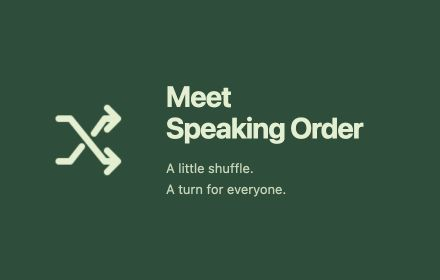
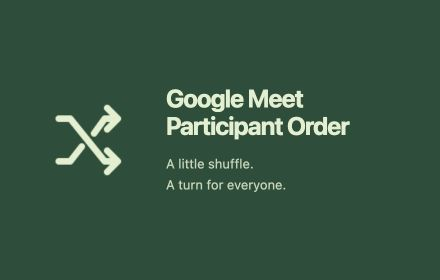
Rename extension to Google Meet Participant Order

Changed region(s): [[0.3545, 0.2857, 0.8273, 0.5143], [0.3545, 0.5714, 0.65, 0.7143]]

diff --git a/store/preview.html b/store/preview.html
@@ -1,17 +1,17 @@
-<!doctype html><html lang="en"><meta charset="utf-8"><title>Meet Speaking Order — store screenshot</title>
+<!doctype html><html lang="en"><meta charset="utf-8"><title>Google Meet Participant Order — store screenshot</title>
 <style>*{box-sizing:border-box}body{margin:0;width:1280px;height:800px;background:#eaf0e4;font-family:-apple-system,BlinkMacSystemFont,"Segoe UI",sans-serif;color:#18332e;overflow:hidden}main{height:100%;display:flex;align-items:center;gap:95px;padding:65px 105px}.copy{width:460px}.label{font-size:13px;letter-spacing:2px;font-weight:650;color:#54704e}h1{font-size:66px;line-height:1.06;letter-spacing:-3px;margin:24px 0}p{font-size:21px;line-height:1.5;color:#5d705c}.steps{font-size:17px;line-height:2.1;margin:30px 0;color:#284d38}.note{font-size:12px;margin-top:38px}iframe{width:392px;height:650px;border:1px solid #d1dcc9;border-radius:18px;box-shadow:0 22px 55px #29422720;background:#f6f7f2;flex-shrink:0}</style>
-<main><section class="copy"><div class="label">MEET SPEAKING ORDER</div><h1>A turn for<br>everyone.</h1><p>Shuffle your Google Meet participants<br>into a ready-to-copy speaking order.</p><div class="steps">01 &nbsp; Open the extension<br>02 &nbsp; Review or reshuffle<br>03 &nbsp; Copy and paste into chat</div><p class="note">Local processing · No tracking · Example names shown</p></section><iframe title="Extension popup preview" srcdoc="&lt;!doctype html&gt;
+<main><section class="copy"><div class="label">GOOGLE MEET PARTICIPANT ORDER</div><h1>A turn for<br>everyone.</h1><p>Shuffle your Google Meet participants<br>into a ready-to-copy speaking order.</p><div class="steps">01 &nbsp; Open the extension<br>02 &nbsp; Review or reshuffle<br>03 &nbsp; Copy and paste into chat</div><p class="note">Local processing · No tracking · Example names shown</p></section><iframe title="Extension popup preview" srcdoc="&lt;!doctype html&gt;
 &lt;html lang=&quot;en&quot;&gt;
   &lt;head&gt;&lt;base href=&quot;../&quot;&gt;
     &lt;meta charset=&quot;utf-8&quot;&gt;
     &lt;meta name=&quot;viewport&quot; content=&quot;width=device-width, initial-scale=1&quot;&gt;
-    &lt;title&gt;Meet Speaking Order&lt;/title&gt;
+    &lt;title&gt;Google Meet Participant Order&lt;/title&gt;
     &lt;link rel=&quot;stylesheet&quot; href=&quot;popup.css&quot;&gt;
   &lt;/head&gt;
   &lt;body&gt;
     &lt;header&gt;
       &lt;div class=&quot;brand-icon&quot; aria-hidden=&quot;true&quot;&gt;&lt;svg viewBox=&quot;0 0 24 24&quot; fill=&quot;none&quot;&gt;&lt;path d=&quot;M4 7h3c4 0 6 10 10 10h3M17 14l3 3-3 3M4 17h3c1.3 0 2.4-1 3.5-2.5M13.5 9.5C14.6 8 15.7 7 17 7h3M17 4l3 3-3 3&quot; stroke=&quot;currentColor&quot; stroke-width=&quot;2&quot; stroke-linecap=&quot;round&quot; stroke-linejoin=&quot;round&quot;/&gt;&lt;/svg&gt;&lt;/div&gt;
-      &lt;div&gt;&lt;span class=&quot;eyebrow&quot;&gt;FOR GOOGLE MEET&lt;/span&gt;&lt;h1&gt;Speaking order&lt;/h1&gt;&lt;/div&gt;
+      &lt;div&gt;&lt;span class=&quot;eyebrow&quot;&gt;GOOGLE MEET&lt;/span&gt;&lt;h1&gt;Participant Order&lt;/h1&gt;&lt;/div&gt;
     &lt;/header&gt;
     &lt;main&gt;
       &lt;p class=&quot;intro&quot;&gt;A little shuffle. A turn for everyone.&lt;/p&gt;

diff --git a/store/promo.html b/store/promo.html
@@ -1,1 +1,1 @@
-<!doctype html><html lang="en"><meta charset="utf-8"><title>Meet Speaking Order — promotional tile</title><style>*{box-sizing:border-box}body{margin:0;width:440px;height:280px;background:#244e39;color:#e0efcd;font-family:-apple-system,BlinkMacSystemFont,"Segoe UI",sans-serif;overflow:hidden}main{height:100%;display:flex;align-items:center;gap:26px;padding:35px}img{width:105px;height:105px}h1{font-size:29px;letter-spacing:-1px;line-height:1.1;margin:0 0 14px}p{font-size:13px;line-height:1.6;color:#c2d6b5;margin:0}</style><main><img src="../icons/128.png" alt="Shuffle icon"><section><h1>Meet<br>Speaking Order</h1><p>A little shuffle.<br>A turn for everyone.</p></section></main></html>
+<!doctype html><html lang="en"><meta charset="utf-8"><title>Google Meet Participant Order — promotional tile</title><style>*{box-sizing:border-box}body{margin:0;width:440px;height:280px;background:#244e39;color:#e0efcd;font-family:-apple-system,BlinkMacSystemFont,"Segoe UI",sans-serif;overflow:hidden}main{height:100%;display:flex;align-items:center;gap:26px;padding:35px}img{width:105px;height:105px}h1{font-size:25px;letter-spacing:-1px;line-height:1.1;margin:0 0 14px}p{font-size:13px;line-height:1.6;color:#c2d6b5;margin:0}</style><main><img src="../icons/128.png" alt="Shuffle icon"><section><h1>Google Meet<br>Participant Order</h1><p>A little shuffle.<br>A turn for everyone.</p></section></main></html>

diff --git a/popup.html b/popup.html
@@ -3,14 +3,14 @@
   <head>
     <meta charset="utf-8">
     <meta name="viewport" content="width=device-width, initial-scale=1">
-    <title>Meet Speaking Order</title>
+    <title>Google Meet Participant Order</title>
     <link rel="stylesheet" href="popup.css">
     <script type="module" src="popup.js"></script>
   </head>
   <body>
     <header>
       <div class="brand-icon" aria-hidden="true"><svg viewBox="0 0 24 24" fill="none"><path d="M4 7h3c4 0 6 10 10 10h3M17 14l3 3-3 3M4 17h3c1.3 0 2.4-1 3.5-2.5M13.5 9.5C14.6 8 15.7 7 17 7h3M17 4l3 3-3 3" stroke="currentColor" stroke-width="2" stroke-linecap="round" stroke-linejoin="round"/></svg></div>
-      <div><span class="eyebrow">FOR GOOGLE MEET</span><h1>Speaking order</h1></div>
+      <div><span class="eyebrow">GOOGLE MEET</span><h1>Participant Order</h1></div>
     </header>
     <main>
       <p class="intro">A little shuffle. A turn for everyone.</p>

diff --git a/scripts/store-preview.py b/scripts/store-preview.py
@@ -14,8 +14,8 @@ message = 'Speaking order:\n1. Alex Chen\n2. Priya Sharma\n3. Sam Taylor\n4. Mor
 popup = popup.replace('aria-describedby="message-help"></textarea>', f'aria-describedby="message-help">{escape(message)}</textarea>')
 output = root / "store"
 output.mkdir(exist_ok=True)
-(output / "preview.html").write_text('''<!doctype html><html lang="en"><meta charset="utf-8"><title>Meet Speaking Order — store screenshot</title>
+(output / "preview.html").write_text('''<!doctype html><html lang="en"><meta charset="utf-8"><title>Google Meet Participant Order — store screenshot</title>
 <style>*{box-sizing:border-box}body{margin:0;width:1280px;height:800px;background:#eaf0e4;font-family:-apple-system,BlinkMacSystemFont,"Segoe UI",sans-serif;color:#18332e;overflow:hidden}main{height:100%;display:flex;align-items:center;gap:95px;padding:65px 105px}.copy{width:460px}.label{font-size:13px;letter-spacing:2px;font-weight:650;color:#54704e}h1{font-size:66px;line-height:1.06;letter-spacing:-3px;margin:24px 0}p{font-size:21px;line-height:1.5;color:#5d705c}.steps{font-size:17px;line-height:2.1;margin:30px 0;color:#284d38}.note{font-size:12px;margin-top:38px}iframe{width:392px;height:650px;border:1px solid #d1dcc9;border-radius:18px;box-shadow:0 22px 55px #29422720;background:#f6f7f2;flex-shrink:0}</style>
-<main><section class="copy"><div class="label">MEET SPEAKING ORDER</div><h1>A turn for<br>everyone.</h1><p>Shuffle your Google Meet participants<br>into a ready-to-copy speaking order.</p><div class="steps">01 &nbsp; Open the extension<br>02 &nbsp; Review or reshuffle<br>03 &nbsp; Copy and paste into chat</div><p class="note">Local processing · No tracking · Example names shown</p></section><iframe title="Extension popup preview" srcdoc="''' + escape(popup, quote=True) + '''"></iframe></main></html>''')
-(output / "promo.html").write_text('''<!doctype html><html lang="en"><meta charset="utf-8"><title>Meet Speaking Order — promotional tile</title><style>*{box-sizing:border-box}body{margin:0;width:440px;height:280px;background:#244e39;color:#e0efcd;font-family:-apple-system,BlinkMacSystemFont,"Segoe UI",sans-serif;overflow:hidden}main{height:100%;display:flex;align-items:center;gap:26px;padding:35px}img{width:105px;height:105px}h1{font-size:29px;letter-spacing:-1px;line-height:1.1;margin:0 0 14px}p{font-size:13px;line-height:1.6;color:#c2d6b5;margin:0}</style><main><img src="../icons/128.png" alt="Shuffle icon"><section><h1>Meet<br>Speaking Order</h1><p>A little shuffle.<br>A turn for everyone.</p></section></main></html>''')
+<main><section class="copy"><div class="label">GOOGLE MEET PARTICIPANT ORDER</div><h1>A turn for<br>everyone.</h1><p>Shuffle your Google Meet participants<br>into a ready-to-copy speaking order.</p><div class="steps">01 &nbsp; Open the extension<br>02 &nbsp; Review or reshuffle<br>03 &nbsp; Copy and paste into chat</div><p class="note">Local processing · No tracking · Example names shown</p></section><iframe title="Extension popup preview" srcdoc="''' + escape(popup, quote=True) + '''"></iframe></main></html>''')
+(output / "promo.html").write_text('''<!doctype html><html lang="en"><meta charset="utf-8"><title>Google Meet Participant Order — promotional tile</title><style>*{box-sizing:border-box}body{margin:0;width:440px;height:280px;background:#244e39;color:#e0efcd;font-family:-apple-system,BlinkMacSystemFont,"Segoe UI",sans-serif;overflow:hidden}main{height:100%;display:flex;align-items:center;gap:26px;padding:35px}img{width:105px;height:105px}h1{font-size:25px;letter-spacing:-1px;line-height:1.1;margin:0 0 14px}p{font-size:13px;line-height:1.6;color:#c2d6b5;margin:0}</style><main><img src="../icons/128.png" alt="Shuffle icon"><section><h1>Google Meet<br>Participant Order</h1><p>A little shuffle.<br>A turn for everyone.</p></section></main></html>''')
 print("Created store/preview.html and store/promo.html")

diff --git a/scripts/package.py b/scripts/package.py
@@ -7,7 +7,7 @@ root = Path(__file__).resolve().parent.parent
 manifest = json.loads((root / "manifest.json").read_text())
 files = ["manifest.json", "popup.html", "popup.css", "popup.js", "meet.js", "order.js"]
 files += sorted(set(manifest["icons"].values()) | set(manifest["action"]["default_icon"].values()))
-output = root / "dist" / f"meet-speaking-order-{manifest['version']}.zip"
+output = root / "dist" / f"google-meet-participant-order-{manifest['version']}.zip"
 output.parent.mkdir(exist_ok=True)
 with zipfile.ZipFile(output, "w", compression=zipfile.ZIP_DEFLATED) as archive:
     for name in files:

diff --git a/README.md b/README.md
@@ -1,4 +1,4 @@
-# Meet Speaking Order
+# Google Meet Participant Order
 
 A small Chrome extension that reads the current Google Meet participants and gives you a shuffled, numbered message to copy into chat. No account, API key, server, build step, or paid service is needed.
 
@@ -7,7 +7,7 @@ A small Chrome extension that reads the current Google Meet participants and giv
 1. Download this repository using **Code → Download ZIP** and extract it, or clone it with Git.
 2. Open `chrome://extensions` and turn on **Developer mode** (top right).
 3. Click **Load unpacked** and choose the extracted folder containing `manifest.json`.
-4. Use Chrome’s puzzle-piece Extensions menu to pin **Meet Speaking Order**.
+4. Use Chrome’s puzzle-piece Extensions menu to pin **Google Meet Participant Order**.
 
 ## Use
 
@@ -39,7 +39,7 @@ Names are processed locally in popup memory and discarded when it closes. There 
 
 The implementation uses Chrome’s [activeTab permission](https://developer.chrome.com/docs/extensions/develop/concepts/activeTab) and [Scripting API](https://developer.chrome.com/docs/extensions/reference/api/scripting). It does not request persistent access to websites.
 
-Read the [privacy policy](PRIVACY.md). For help, [open an issue](https://github.com/bashir-abdelwahed/google-meet-extension/issues). Do not include private participant names or meeting links in public issues.
+Read the [privacy policy](PRIVACY.md). For help, [open an issue](https://github.com/bashir-abdelwahed/google-meet-participant-order/issues). Do not include private participant names or meeting links in public issues.
 
 ## Development and verification
 
@@ -56,7 +56,7 @@ Version 1.0.1 was also verified in a live two-person Meet call on 2026-10-03, st
 
 ## Chrome Web Store package
 
-Run `npm run package` (requires Python 3). This tests the extension and creates `dist/meet-speaking-order-1.0.1.zip`. The archive includes only the manifest, popup, runtime JavaScript, and icons, with `manifest.json` at the archive root.
+Run `npm run package` (requires Python 3). This tests the extension and creates `dist/google-meet-participant-order-1.0.2.zip`. The archive includes only the manifest, popup, runtime JavaScript, and icons, with `manifest.json` at the archive root.
 
 The [publishing guide](store/PUBLISHING.md) contains the store description, permission explanations, reviewer instructions, and submission steps. A public source repository is not required by the Chrome Web Store; this repository is public so the implementation can be inspected.
 

diff --git a/store/PUBLISHING.md b/store/PUBLISHING.md
@@ -3,10 +3,10 @@
 ## Package and URLs
 
 - Build: `npm ci && npm run package`
-- Upload: `dist/meet-speaking-order-1.0.1.zip`
-- Homepage: https://github.com/bashir-abdelwahed/google-meet-extension
-- Support: https://github.com/bashir-abdelwahed/google-meet-extension/issues
-- Privacy policy: https://github.com/bashir-abdelwahed/google-meet-extension/blob/main/PRIVACY.md
+- Upload: `dist/google-meet-participant-order-1.0.2.zip`
+- Homepage: https://github.com/bashir-abdelwahed/google-meet-participant-order
+- Support: https://github.com/bashir-abdelwahed/google-meet-participant-order/issues
+- Privacy policy: https://github.com/bashir-abdelwahed/google-meet-participant-order/blob/main/PRIVACY.md
 - Language: English
 - Suggested category: Productivity / Workflow & Planning (choose the matching available category)
 - Distribution: free, public
@@ -22,7 +22,7 @@ The screenshot uses the actual popup markup with fictional sample names. To rege
 
 Give everyone a turn in Google Meet.
 
-Meet Speaking Order reads the participants in your current call, shuffles their names, and creates a numbered message you can copy into the meeting chat. Useful for standups, round-table discussions, check-ins, and team introductions.
+Google Meet Participant Order reads the participants in your current call, shuffles their names, and creates a numbered message you can copy into the meeting chat. Useful for standups, round-table discussions, check-ins, and team introductions.
 
 HOW IT WORKS
 1. Join a Google Meet call and click the extension.
@@ -66,7 +66,7 @@ Data disclosures: The extension locally handles participant display names and id
 
 1. Install the extension in Chrome.
 2. Join a Google Meet call with another participant, keeping the People panel closed initially. Normal Google Meet access is needed; there is no separate extension account or subscription.
-3. Click Meet Speaking Order in the toolbar. Keep the popup open while names load.
+3. Click Google Meet Participant Order in the toolbar. Keep the popup open while names load.
 4. Verify that both participants appear once in the numbered message. The People panel may briefly open and close.
 5. Click Shuffle again. The same participants remain; a random shuffle may occasionally produce the same order.
 6. Edit the message and click Copy message. Paste into a local text editor to verify the exact text without sending a meeting message.

diff --git a/PRIVACY.md b/PRIVACY.md
@@ -1,8 +1,8 @@
-# Privacy policy — Meet Speaking Order
+# Privacy policy — Google Meet Participant Order
 
 Effective date: October 4, 2026
 
-Meet Speaking Order is maintained by [bashir-abdelwahed](https://github.com/bashir-abdelwahed). Its purpose is to create a randomized speaking order from a Google Meet participant list.
+Google Meet Participant Order is maintained by [bashir-abdelwahed](https://github.com/bashir-abdelwahed). Its purpose is to create a randomized speaking order from a Google Meet participant list.
 
 ## Information used locally
 
@@ -28,4 +28,4 @@ These permissions are used only for the extension's speaking-order feature. User
 
 ## Contact and updates
 
-Questions about this policy can be raised through the [project's issue tracker](https://github.com/bashir-abdelwahed/google-meet-extension/issues). This policy will be updated when the extension's data practices change.
+Questions about this policy can be raised through the [project's issue tracker](https://github.com/bashir-abdelwahed/google-meet-participant-order/issues). This policy will be updated when the extension's data practices change.
